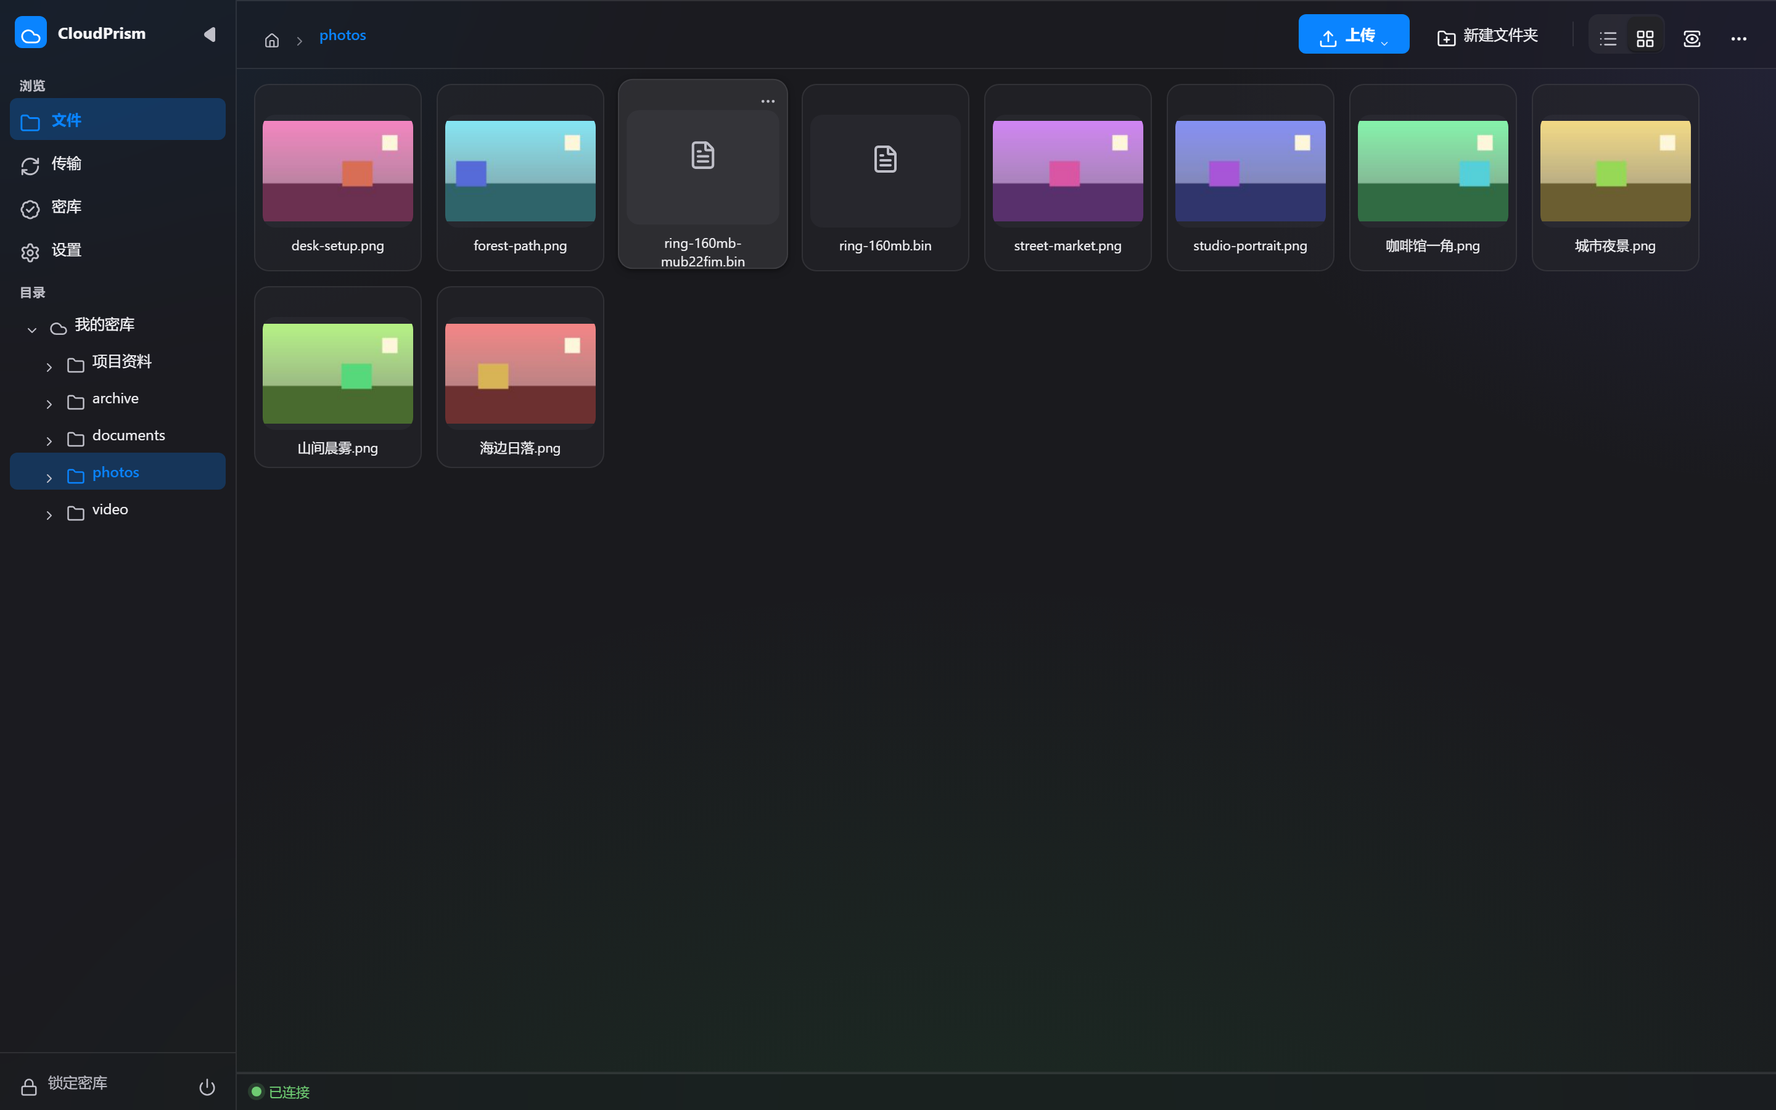
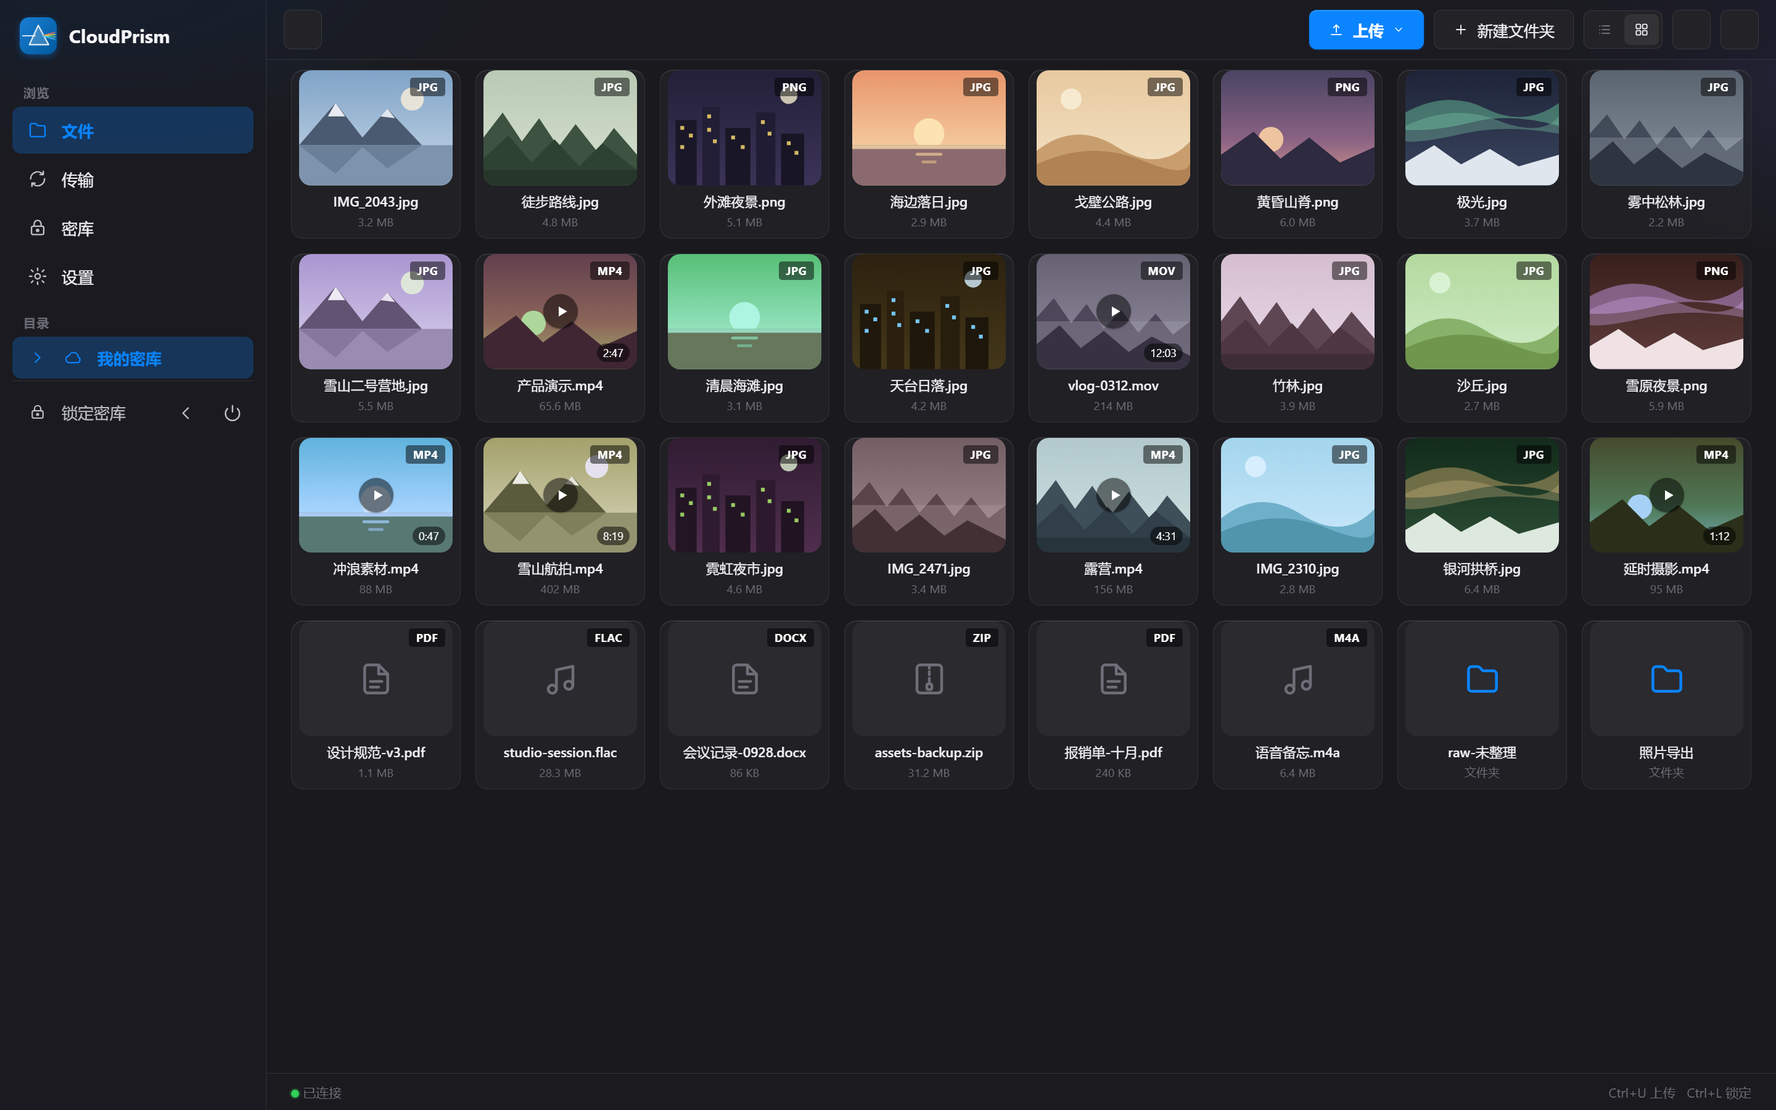
docs(readme): 宣传截图重制——与真实应用布局/密度/比例一致
- 单条顶栏（主页 ‖ 上传/新建/视图/搜索/更多），删去概念稿残留的
  存储用量条与面包屑+大标题双行结构
- 网格密度对齐实测真机（8 列、136px 卡、4:3 缩略图、12px 间距），
  图标/字号按真实应用 ×2 画布校准
- 缩略图换 SVG 风景场景（低多边形剪影）+ 文档类别图标，混合呈现
  贴近真实文件管理器；文件名/大小采用真实分布
- 图源保留在 docs/readme-shot.html（?dark 切深色），以后改版同步重截

diff --git a/docs/readme-shot.html b/docs/readme-shot.html
@@ -1,0 +1,242 @@
+<!DOCTYPE html>
+<html lang="zh-CN"><script>if(location.search.includes('dark'))document.documentElement.dataset.theme='dark';</script><head><meta charset="utf-8"><title>CloudPrism</title>
+<style>
+:root{
+  --accent:#007AFF; --accent-soft:rgba(0,122,255,.12);
+  --bg:#f4f5f7; --surface:#ffffff; --hover:rgba(16,24,40,.05);
+  --stroke:rgba(16,24,40,.08); --stroke-card:transparent;
+  --text:#1c1c21; --text2:#5a5a63; --text3:#9a9aa3; --heading:#16161a;
+  --glass:rgba(255,255,255,.62); --glass-card:rgba(255,255,255,.55); --glass-edge:rgba(255,255,255,.72);
+  --scrim:rgba(0,0,0,.5);
+  --a1:rgba(0,122,255,.08); --a2:rgba(94,92,230,.07); --a3:rgba(52,199,89,.06);
+}
+html[data-theme="dark"]{
+  --accent:#0A84FF; --accent-soft:rgba(10,132,255,.26);
+  --bg:#1a1a1e; --surface:#232327; --hover:rgba(255,255,255,.06);
+  --stroke:rgba(255,255,255,.10); --stroke-card:rgba(255,255,255,.08);
+  --text:#f2f2f5; --text2:#bfbfc8; --text3:#6e6e78; --heading:#f5f5f7;
+  --glass:rgba(28,28,32,.62); --glass-card:rgba(38,38,44,.55); --glass-edge:rgba(255,255,255,.10);
+  --a1:rgba(10,132,255,.17); --a2:rgba(100,98,235,.15); --a3:rgba(48,209,88,.12);
+}
+*{margin:0;padding:0;box-sizing:border-box;font-family:"Segoe UI Variable","Segoe UI","Microsoft YaHei UI",sans-serif}
+svg.ic{width:1em;height:1em;fill:none;stroke:currentColor;stroke-width:1.7;stroke-linecap:round;stroke-linejoin:round;display:block}
+body{
+  background:
+    radial-gradient(1100px 620px at 6% -8%, var(--a1), transparent 62%),
+    radial-gradient(900px 520px at 106% 6%, var(--a2), transparent 62%),
+    radial-gradient(1000px 420px at 50% 118%, var(--a3), transparent 62%),
+    var(--bg);
+  color:var(--text);height:100vh;overflow:hidden;font-size:14px}
+.shell{display:flex;height:100vh}
+
+/* ===== 侧栏 ===== */
+.side{width:432px;flex-shrink:0;display:flex;flex-direction:column;padding:24px 20px 16px;
+  background:var(--glass);backdrop-filter:blur(28px) saturate(180%);
+  border-right:1px solid var(--stroke)}
+.brand{display:flex;align-items:center;gap:20px;padding:4px 12px 28px}
+.brand img{width:60px;height:60px;border-radius:15px;
+  box-shadow:0 3px 12px -1px color-mix(in srgb, var(--accent) 45%, transparent)}
+.brand b{font-size:30px;font-weight:650;letter-spacing:.2px;color:var(--heading)}
+.sec{font-size:20px;font-weight:600;color:var(--text3);letter-spacing:1.5px;padding:20px 18px 10px}
+.nav{display:flex;align-items:center;gap:20px;height:76px;padding:0 22px;border-radius:14px;
+  color:var(--text);font-size:26px;margin-bottom:3px}
+.nav .ic{width:38px;font-size:34px;color:var(--text2)}
+.nav.on{background:var(--accent-soft);color:var(--accent);font-weight:600}
+.nav.on .ic{color:var(--accent)}
+.nav .badge{margin-left:auto;background:var(--accent);color:#fff;font-size:22px;font-weight:600;
+  min-width:38px;height:38px;border-radius:99px;display:grid;place-items:center;padding:0 11px}
+.tree .nav{height:68px;font-size:26px;color:var(--text2)}
+.tree .nav .ic{font-size:30px}
+.tree .nav.on{color:var(--accent)}
+.quota{display:flex;align-items:center;gap:16px;margin:auto 2px 16px;padding:20px 20px;border-radius:16px;
+  background:color-mix(in srgb, var(--text) 4%, transparent);border:1px solid var(--stroke);
+  font-size:22px;color:var(--text2)}
+.quota .ic{font-size:28px;color:var(--text3)}
+.quota .bar{flex:1;height:8px;border-radius:3px;background:color-mix(in srgb, var(--text) 10%, transparent);overflow:hidden}
+.quota .bar i{display:block;height:100%;width:42%;border-radius:3px;background:linear-gradient(90deg,var(--accent),#5e5ce6)}
+.foot{display:flex;align-items:center;gap:8px;border-top:1px solid var(--stroke);padding-top:16px}
+.foot .nav{flex:1}
+.iconbtn{width:68px;height:68px;border-radius:16px;display:grid;place-items:center;color:var(--text2);font-size:34px}
+
+/* ===== 主区 ===== */
+.main{flex:1;display:flex;flex-direction:column;min-width:0}
+/* 单条顶栏（对齐真实应用） */
+.topbar{display:flex;align-items:center;gap:16px;padding:16px 28px;
+  background:var(--glass);backdrop-filter:blur(28px) saturate(180%);border-bottom:1px solid var(--stroke)}
+.topbar .btn .ic{font-size:26px}
+.iconbtn2{width:56px;padding:0;justify-content:center}
+.sp{flex:1}
+.sp{flex:1}
+.btn{height:64px;padding:0 30px;border-radius:12px;display:flex;align-items:center;gap:14px;font-size:25px;
+  background:var(--surface);border:1px solid var(--stroke);color:var(--text)}
+.btn .ic{font-size:26px}
+.btn.primary{position:relative;overflow:hidden;background:var(--accent);border-color:transparent;color:#fff;font-weight:600;
+  box-shadow:inset 0 1px 0 rgba(255,255,255,.22),0 1px 3px color-mix(in srgb, var(--accent) 35%, transparent)}
+.btn.primary .ic{color:#fff}
+.segv{display:flex;background:var(--surface);border:1px solid var(--stroke);border-radius:12px;padding:5px;gap:4px}
+.segv span{width:56px;height:50px;border-radius:9px;display:grid;place-items:center;color:var(--text3);font-size:26px}
+.segv span.on{background:color-mix(in srgb, var(--text) 8%, transparent);color:var(--text)}
+
+/* ===== 网格 ===== */
+.content{flex:1;padding:16px 40px;overflow:hidden}
+.grid{display:grid;grid-template-columns:repeat(8,1fr);gap:24px}
+.card{background:var(--glass-card);border:1px solid var(--stroke-card);border-radius:20px;overflow:hidden;
+  box-shadow:inset 0 1px 0 var(--glass-edge)}
+.card.hot{background:var(--accent-soft);border-color:var(--accent);
+  box-shadow:0 0 0 3px color-mix(in srgb, var(--accent) 12%, transparent),inset 0 1px 0 var(--glass-edge)}
+.thumb{position:relative;display:flex;align-items:center;justify-content:center;aspect-ratio:4/3;
+  margin:0 12px 6px;border-radius:20px;overflow:hidden}
+.thumb .ext{position:absolute;top:12px;right:12px;padding:3px 12px;font-size:18px;font-weight:700;
+  letter-spacing:.5px;color:#fff;background:var(--scrim);border-radius:5px}
+.thumb .play{position:absolute;inset:0;margin:auto;width:56px;height:56px;border-radius:50%;
+  background:var(--scrim);display:grid;place-items:center;color:#fff;font-size:15px;box-shadow:0 1px 3px rgba(0,0,0,.3)}
+.thumb .play .ic{fill:#fff;stroke:none;margin-left:4px;font-size:30px}
+.thumb .dur{position:absolute;right:12px;bottom:12px;padding:3px 10px;font-size:18px;color:#fff;
+  background:var(--scrim);border-radius:99px;font-variant-numeric:tabular-nums}
+.thumb .scene{position:absolute;inset:0;width:100%;height:100%}
+.thumb.flat{background:color-mix(in srgb, var(--text) 5%, transparent)}
+.thumb.flat .ic{font-size:64px;color:var(--text3)}
+.thumb.flat .ic.acc{color:var(--accent)}
+html:not([data-theme="dark"]) .thumb.flat{background:rgba(16,24,40,.07)}
+.cap{padding:4px 20px 14px;text-align:center}
+.nm{font-size:22px;font-weight:500;white-space:nowrap;overflow:hidden;text-overflow:ellipsis}
+.meta{margin-top:5px;font-size:19px;color:var(--text3);font-variant-numeric:tabular-nums}
+.hot .nm{color:var(--accent);font-weight:600}
+
+/* ===== 传输条 + 状态栏 ===== */
+.transfer{display:flex;align-items:center;gap:22px;padding:20px 40px;font-size:23px;color:var(--text2);
+  background:var(--glass);backdrop-filter:blur(28px);border-top:1px solid var(--stroke)}
+.transfer .ic{font-size:26px;color:var(--accent)}
+.transfer .bar{flex:1;max-width:860px;height:10px;border-radius:3px;background:color-mix(in srgb, var(--text) 10%, transparent);overflow:hidden}
+.transfer .bar i{display:block;height:100%;width:62%;border-radius:3px;
+  background:linear-gradient(90deg,var(--accent),#5e5ce6)}
+.transfer .pct{color:var(--accent);font-weight:600;font-variant-numeric:tabular-nums}
+.status{height:60px;display:flex;align-items:center;gap:30px;padding:0 40px;font-size:21px;color:var(--text3);
+  background:var(--glass);backdrop-filter:blur(28px);border-top:1px solid var(--stroke)}
+.dot{display:inline-block;width:13px;height:13px;border-radius:50%;background:#30d158;margin-right:6px;
+  box-shadow:0 0 0 3px color-mix(in srgb, #30d158 18%, transparent)}
+.status .r{margin-left:auto;display:flex;gap:18px}
+</style></head>
+<body>
+<svg width="0" height="0" style="position:absolute">
+  <symbol id="i-folder" viewBox="0 0 24 24"><path d="M3.5 6.5a2 2 0 0 1 2-2h3.6a2 2 0 0 1 1.5.7l1.2 1.4a1 1 0 0 0 .8.4h5.9a2 2 0 0 1 2 2v8.5a2 2 0 0 1-2 2h-13a2 2 0 0 1-2-2Z"/></symbol>
+  <symbol id="i-sync" viewBox="0 0 24 24"><path d="M20 12a8 8 0 0 1-14.2 5M4 12a8 8 0 0 1 14.2-5"/><path d="M18.5 3.5v3.6h-3.6M5.5 20.5v-3.6h3.6"/></symbol>
+  <symbol id="i-lock" viewBox="0 0 24 24"><rect x="5" y="10.5" width="14" height="9.5" rx="2"/><path d="M8 10.5V7.8a4 4 0 0 1 8 0v2.7"/><circle cx="12" cy="15.2" r="1.2"/></symbol>
+  <symbol id="i-gear" viewBox="0 0 24 24"><circle cx="12" cy="12" r="3"/><path d="M12 2.8v2.5M12 18.7v2.5M4.9 4.9l1.8 1.8M17.3 17.3l1.8 1.8M2.8 12h2.5M18.7 12h2.5M4.9 19.1l1.8-1.8M17.3 6.7l1.8-1.8"/></symbol>
+  <symbol id="i-cloud" viewBox="0 0 24 24"><path d="M7 18.5a4.5 4.5 0 0 1-.4-9A6 6 0 0 1 18.3 11a4 4 0 0 1-.8 7.5Z"/></symbol>
+  <symbol id="i-chev" viewBox="0 0 24 24"><path d="m9 6 6 6-6 6"/></symbol>
+  <symbol id="i-chevd" viewBox="0 0 24 24"><path d="m6 9 6 6 6-6"/></symbol>
+  <symbol id="i-power" viewBox="0 0 24 24"><path d="M12 3.5v7"/><path d="M6.3 6.8a8 8 0 1 0 11.4 0"/></symbol>
+  <symbol id="i-upload" viewBox="0 0 24 24"><path d="M12 16V5m0 0-4 4m4-4 4 4"/><path d="M4.5 19.5h15"/></symbol>
+  <symbol id="i-plus" viewBox="0 0 24 24"><path d="M12 5.5v13M5.5 12h13"/></symbol>
+  <symbol id="i-list" viewBox="0 0 24 24"><path d="M8.5 6.5h11M8.5 12h11M8.5 17.5h11"/><circle cx="4.8" cy="6.5" r="1" fill="currentColor" stroke="none"/><circle cx="4.8" cy="12" r="1" fill="currentColor" stroke="none"/><circle cx="4.8" cy="17.5" r="1" fill="currentColor" stroke="none"/></symbol>
+  <symbol id="i-grid" viewBox="0 0 24 24"><rect x="4" y="4" width="6.5" height="6.5" rx="1.5"/><rect x="13.5" y="4" width="6.5" height="6.5" rx="1.5"/><rect x="4" y="13.5" width="6.5" height="6.5" rx="1.5"/><rect x="13.5" y="13.5" width="6.5" height="6.5" rx="1.5"/></symbol>
+  <symbol id="i-db" viewBox="0 0 24 24"><ellipse cx="12" cy="5.5" rx="7.5" ry="2.8"/><path d="M4.5 5.5v13c0 1.6 3.4 2.8 7.5 2.8s7.5-1.2 7.5-2.8v-13"/><path d="M4.5 12c0 1.6 3.4 2.8 7.5 2.8s7.5-1.2 7.5-2.8"/></symbol>
+  <symbol id="i-play" viewBox="0 0 24 24"><path d="M8 5.5v13l11-6.5Z"/></symbol>
+  <symbol id="i-doc" viewBox="0 0 24 24"><path d="M13.5 3.5H7a2 2 0 0 0-2 2v13a2 2 0 0 0 2 2h10a2 2 0 0 0 2-2V9Z"/><path d="M13.5 3.5V9H19"/><path d="M8.5 13.5h7M8.5 17h5"/></symbol>
+  <symbol id="i-music" viewBox="0 0 24 24"><path d="M9.5 18.2V6.5l10-2.2v11.5"/><circle cx="7" cy="18.2" r="2.5"/><circle cx="17" cy="15.8" r="2.5"/></symbol>
+  <symbol id="i-zip" viewBox="0 0 24 24"><rect x="4.5" y="3.5" width="15" height="17" rx="2"/><path d="M12 3.5v2m0 2v2m0 2v2"/><rect x="10.5" y="15" width="3" height="3.5" rx="1"/></symbol>
+  <symbol id="i-home" viewBox="0 0 24 24"><path d="M4 11.5 12 4l8 7.5"/><path d="M6.5 9.5V20h11V9.5"/></symbol>
+  <symbol id="i-search" viewBox="0 0 24 24"><circle cx="11" cy="11" r="6.5"/><path d="m16 16 4.5 4.5"/></symbol>
+  <symbol id="i-more" viewBox="0 0 24 24"><circle cx="5.5" cy="12" r="1.6" fill="currentColor" stroke="none"/><circle cx="12" cy="12" r="1.6" fill="currentColor" stroke="none"/><circle cx="18.5" cy="12" r="1.6" fill="currentColor" stroke="none"/></symbol>
+</svg>
+<div class="shell">
+  <aside class="side">
+    <div class="brand"><img src="../Pic/icon.png" alt=""/><b>CloudPrism</b></div>
+    <div class="sec">浏览</div>
+    <div class="nav on"><svg class="ic"><use href="#i-folder"/></svg>文件</div>
+    <div class="nav"><svg class="ic"><use href="#i-sync"/></svg>传输</div>
+    <div class="nav"><svg class="ic"><use href="#i-lock"/></svg>密库</div>
+    <div class="nav"><svg class="ic"><use href="#i-gear"/></svg>设置</div>
+    <div class="sec">目录</div>
+    <div class="tree">
+      <div class="nav on"><svg class="ic"><use href="#i-chev"/></svg><svg class="ic" style="font-size:30px"><use href="#i-cloud"/></svg>我的密库</div>
+    <div class="foot">
+      <div class="nav"><svg class="ic"><use href="#i-lock"/></svg>锁定密库</div>
+      <div class="iconbtn"><svg class="ic" style="transform:rotate(180deg)"><use href="#i-chev"/></svg></div>
+      <div class="iconbtn"><svg class="ic"><use href="#i-power"/></svg></div>
+    </div>
+  </aside>
+
+  <section class="main">
+    <!-- 单条顶栏（与真实应用一致）：左 = 主页；右 = 上传/新建/视图/搜索/更多 -->
+    <div class="topbar">
+      <button class="btn iconbtn2" title="主页"><svg class="ic"><use href="#i-home"/></svg></button>
+      <div class="sp"></div>
+      <button class="btn primary"><svg class="ic"><use href="#i-upload"/></svg>上传<svg class="ic" style="font-size:20px"><use href="#i-chevd"/></svg></button>
+      <button class="btn"><svg class="ic"><use href="#i-plus"/></svg>新建文件夹</button>
+      <div class="segv"><span><svg class="ic"><use href="#i-list"/></svg></span><span class="on"><svg class="ic"><use href="#i-grid"/></svg></span></div>
+      <button class="btn iconbtn2" title="搜索"><svg class="ic"><use href="#i-search"/></svg></button>
+      <button class="btn iconbtn2" title="更多"><svg class="ic"><use href="#i-more"/></svg></button>
+    </div>
+    <div class="content">
+      <div class="grid" id="grid"></div>
+    </div>
+    <div class="status">
+      <span><span class="dot"></span>已连接</span>
+      <div class="r"><span>Ctrl+U 上传</span><span>Ctrl+L 锁定</span></div>
+    </div>
+  </section>
+</div>
+
+<!-- 场景库（真实照片的风景代用品：低多边形剪影风） -->
+<svg width="0" height="0" style="position:absolute">
+  <symbol id="sc-mountain" viewBox="0 0 160 120"><defs><linearGradient id="g1" x1="0" y1="0" x2="0" y2="1"><stop offset="0" stop-color="#7fa3c7"/><stop offset="1" stop-color="#c8d9e8"/></linearGradient></defs><rect width="160" height="120" fill="url(#g1)"/><circle cx="118" cy="30" r="12" fill="#f0e8d8" opacity=".9"/><polygon points="0,78 38,34 66,70 92,40 128,78" fill="#4a5a70"/><polygon points="30,48 38,34 48,48" fill="#e8ecf2"/><polygon points="85,48 92,40 100,50" fill="#dfe6ee"/><rect y="78" width="160" height="42" fill="#7d94ac"/><polygon points="0,78 38,108 66,80 92,102 128,78" fill="#5a7089" opacity=".55"/></symbol>
+  <symbol id="sc-forest" viewBox="0 0 160 120"><defs><linearGradient id="g2" x1="0" y1="0" x2="0" y2="1"><stop offset="0" stop-color="#b8c9b4"/><stop offset="1" stop-color="#d8e2d0"/></linearGradient></defs><rect width="160" height="120" fill="url(#g2)"/><polygon points="0,120 0,70 20,44 40,74 58,50 78,80 96,56 118,84 136,60 160,88 160,120" fill="#3d5240"/><polygon points="0,120 0,92 26,68 50,96 74,72 100,100 124,76 160,104 160,120" fill="#2e4232"/><rect y="104" width="160" height="16" fill="#26362a"/></symbol>
+  <symbol id="sc-city" viewBox="0 0 160 120"><defs><linearGradient id="g3" x1="0" y1="0" x2="0" y2="1"><stop offset="0" stop-color="#232038"/><stop offset="1" stop-color="#3c3358"/></linearGradient></defs><rect width="160" height="120" fill="url(#g3)"/><circle cx="126" cy="26" r="9" fill="#e8e0c8" opacity=".85"/><rect x="8" y="52" width="22" height="68" fill="#1a1728"/><rect x="36" y="38" width="18" height="82" fill="#221e36"/><rect x="60" y="60" width="26" height="60" fill="#191627"/><rect x="92" y="44" width="20" height="76" fill="#201c33"/><rect x="118" y="66" width="24" height="54" fill="#181525"/><g fill="#e8c96a" opacity=".9"><rect x="13" y="58" width="4" height="4"/><rect x="22" y="66" width="4" height="4"/><rect x="13" y="78" width="4" height="4"/><rect x="41" y="46" width="4" height="4"/><rect x="41" y="60" width="4" height="4"/><rect x="47" y="72" width="4" height="4"/><rect x="66" y="68" width="4" height="4"/><rect x="76" y="78" width="4" height="4"/><rect x="97" y="52" width="4" height="4"/><rect x="104" y="64" width="4" height="4"/><rect x="124" y="74" width="4" height="4"/><rect x="132" y="84" width="4" height="4"/></g></symbol>
+  <symbol id="sc-coast" viewBox="0 0 160 120"><defs><linearGradient id="g4" x1="0" y1="0" x2="0" y2="1"><stop offset="0" stop-color="#e8956b"/><stop offset=".55" stop-color="#f2c094"/><stop offset="1" stop-color="#f7e0bd"/></linearGradient></defs><rect width="160" height="120" fill="url(#g4)"/><circle cx="80" cy="66" r="16" fill="#fbe3b2"/><rect y="78" width="160" height="42" fill="#8a6a6e"/><rect y="78" width="160" height="4" fill="#f7d9a8" opacity=".8"/><rect x="66" y="86" width="28" height="3" rx="1.5" fill="#f2c894" opacity=".7"/><rect x="72" y="94" width="16" height="3" rx="1.5" fill="#eec088" opacity=".55"/></symbol>
+  <symbol id="sc-desert" viewBox="0 0 160 120"><defs><linearGradient id="g5" x1="0" y1="0" x2="0" y2="1"><stop offset="0" stop-color="#e8c9a0"/><stop offset="1" stop-color="#f2e2c4"/></linearGradient></defs><rect width="160" height="120" fill="url(#g5)"/><circle cx="36" cy="30" r="11" fill="#f7ecd4" opacity=".9"/><path d="M0,84 Q40,52 84,80 T160,74 L160,120 L0,120 Z" fill="#c99e6e"/><path d="M0,98 Q56,72 110,94 T160,90 L160,120 L0,120 Z" fill="#b08254"/></symbol>
+  <symbol id="sc-dusk" viewBox="0 0 160 120"><defs><linearGradient id="g6" x1="0" y1="0" x2="0" y2="1"><stop offset="0" stop-color="#4a4462"/><stop offset=".6" stop-color="#8a6284"/><stop offset="1" stop-color="#d8998a"/></linearGradient></defs><rect width="160" height="120" fill="url(#g6)"/><circle cx="52" cy="72" r="13" fill="#f2c9a0" opacity=".95"/><polygon points="0,120 0,88 34,64 62,92 92,70 124,96 160,80 160,120" fill="#2e2a40"/></symbol>
+  <symbol id="sc-aurora" viewBox="0 0 160 120"><defs><linearGradient id="g7" x1="0" y1="0" x2="0" y2="1"><stop offset="0" stop-color="#1e2438"/><stop offset="1" stop-color="#3a4660"/></linearGradient></defs><rect width="160" height="120" fill="url(#g7)"/><path d="M0,44 Q44,20 84,40 T160,34 L160,58 Q110,44 70,54 T0,62 Z" fill="#5fae8e" opacity=".55"/><path d="M0,58 Q50,34 96,52 T160,48 L160,66 Q104,56 60,66 T0,74 Z" fill="#7ec9a8" opacity=".35"/><polygon points="0,120 0,96 30,78 58,98 88,82 118,100 160,88 160,120" fill="#dfe6ee"/></symbol>
+  <symbol id="sc-mist" viewBox="0 0 160 120"><defs><linearGradient id="g8" x1="0" y1="0" x2="0" y2="1"><stop offset="0" stop-color="#5a6470"/><stop offset="1" stop-color="#8a94a0"/></linearGradient></defs><rect width="160" height="120" fill="url(#g8)"/><polygon points="0,120 0,66 18,46 36,72 52,52 70,78 88,58 106,82 124,62 142,84 160,70 160,120" fill="#3a4250" opacity=".85"/><rect y="70" width="160" height="50" fill="#9aa4ae" opacity=".35"/><polygon points="0,120 0,94 24,74 46,98 70,80 96,102 120,86 160,106 160,120" fill="#2e3540"/></symbol>
+</svg>
+<script>
+// 按真实应用密度生成 8 列 × 4 行网格（实测真机 1440 窗口为 8 列 136px 卡）
+const C = [
+  ['sc-mountain',0,'IMG_2043.jpg','3.2 MB','JPG'],
+  ['sc-forest',0,'徒步路线.jpg','4.8 MB','JPG'],
+  ['sc-city',0,'外滩夜景.png','5.1 MB','PNG'],
+  ['sc-coast',0,'海边落日.jpg','2.9 MB','JPG'],
+  ['sc-desert',0,'戈壁公路.jpg','4.4 MB','JPG'],
+  ['sc-dusk',0,'黄昏山脊.png','6.0 MB','PNG'],
+  ['sc-aurora',0,'极光.jpg','3.7 MB','JPG'],
+  ['sc-mist',0,'雾中松林.jpg','2.2 MB','JPG'],
+  ['sc-mountain',50,'雪山二号营地.jpg','5.5 MB','JPG'],
+  ['sc-dusk',70,'产品演示.mp4','65.6 MB','MP4','2:47'],
+  ['sc-coast',110,'清晨海滩.jpg','3.1 MB','JPG'],
+  ['sc-city',150,'天台日落.jpg','4.2 MB','JPG'],
+  ['sc-mist',40,'vlog-0312.mov','214 MB','MOV','12:03'],
+  ['sc-forest',200,'竹林.jpg','3.9 MB','JPG'],
+  ['sc-desert',60,'沙丘.jpg','2.7 MB','JPG'],
+  ['sc-aurora',130,'雪原夜景.png','5.9 MB','PNG'],
+  ['sc-coast',180,'冲浪素材.mp4','88 MB','MP4','0:47'],
+  ['sc-mountain',210,'雪山航拍.mp4','402 MB','MP4','8:19'],
+  ['sc-city',40,'霓虹夜市.jpg','4.6 MB','JPG'],
+  ['sc-mist',120,'IMG_2471.jpg','3.4 MB','JPG'],
+  ['sc-forest',80,'露营.mp4','156 MB','MP4','4:31'],
+  ['sc-desert',160,'IMG_2310.jpg','2.8 MB','JPG'],
+  ['sc-aurora',260,'银河拱桥.jpg','6.4 MB','JPG'],
+  ['sc-dusk',180,'延时摄影.mp4','95 MB','MP4','1:12'],
+  [null,0,'设计规范-v3.pdf','1.1 MB','PDF','', 'i-doc'],
+  [null,0,'studio-session.flac','28.3 MB','FLAC','', 'i-music'],
+  [null,0,'会议记录-0928.docx','86 KB','DOCX','', 'i-doc'],
+  [null,0,'assets-backup.zip','31.2 MB','ZIP','', 'i-zip'],
+  [null,0,'报销单-十月.pdf','240 KB','PDF','', 'i-doc'],
+  [null,0,'语音备忘.m4a','6.4 MB','M4A','', 'i-music'],
+  [null,0,'raw-未整理','文件夹','','', 'i-folder', true],
+  [null,0,'照片导出','文件夹','','', 'i-folder', true],
+];
+const grid = document.getElementById('grid');
+grid.innerHTML = C.map(([sc, hue, name, size, ext, dur, ic, isDir]) => {
+  const hueStyle = hue ? ` style="filter:hue-rotate(${hue}deg)"` : '';
+  const thumbInner = sc
+    ? `<svg class="scene" viewBox="0 0 160 120" preserveAspectRatio="xMidYMid slice"${hueStyle}><use href="#${sc}"/></svg>`
+    : `<svg class="ic${isDir ? ' acc' : ''}"><use href="#${ic}"/></svg>`;
+  const play = dur !== undefined && dur !== '' ? '<span class="play"><svg class="ic"><use href="#i-play"/></svg></span>' : '';
+  const durBadge = dur ? `<span class="dur">${dur}</span>` : '';
+  const extBadge = ext ? `<span class="ext">${ext}</span>` : '';
+  return `<div class="card"><div class="thumb${sc ? '' : ' flat'}">${thumbInner}${play}${extBadge}${durBadge}</div>
+    <div class="cap"><div class="nm">${name}</div><div class="meta">${size}</div></div></div>`;
+}).join('');
+</script>
+</body></html>
